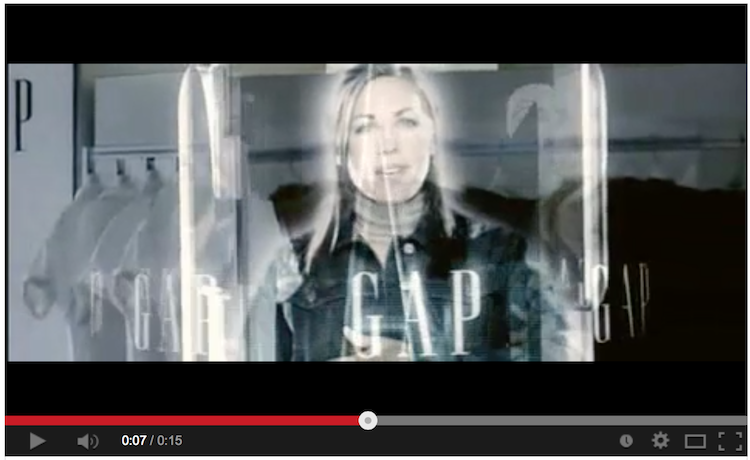
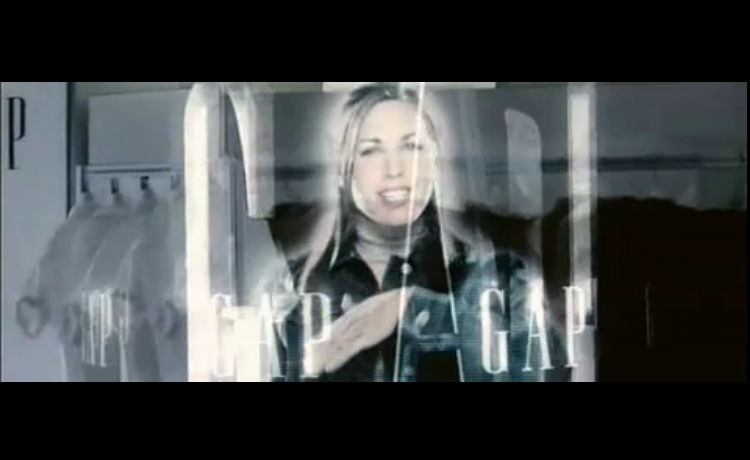
Nicer integration of the video with the whole slide show and the PDF generation

diff --git a/Presentation/Classes/Controllers/TRIPresentationController.m b/Presentation/Classes/Controllers/TRIPresentationController.m
@@ -107,19 +107,22 @@ static NSString *PDF_FILENAME = @"slides.pdf";
     [self resizeCurrentScreen];
 }
 
-- (void)didRotateFromInterfaceOrientation:(UIInterfaceOrientation)fromInterfaceOrientation
-{
-    [super didRotateFromInterfaceOrientation:fromInterfaceOrientation];
-    [self resizeCurrentScreen];
-    self.holderView.hidden = NO;
-}
-
 - (void)willRotateToInterfaceOrientation:(UIInterfaceOrientation)toInterfaceOrientation
                                 duration:(NSTimeInterval)duration
 {
     [super willRotateToInterfaceOrientation:toInterfaceOrientation
                                    duration:duration];
+    [self.currentScreen willRotateToInterfaceOrientation:toInterfaceOrientation
+                                                duration:duration];
     self.holderView.hidden = YES;
+}
+
+- (void)didRotateFromInterfaceOrientation:(UIInterfaceOrientation)fromInterfaceOrientation
+{
+    [super didRotateFromInterfaceOrientation:fromInterfaceOrientation];
+    [self.currentScreen didRotateFromInterfaceOrientation:fromInterfaceOrientation];
+    [self resizeCurrentScreen];
+    self.holderView.hidden = NO;
 }
 
 #pragma mark - KVO

diff --git a/Presentation/Classes/Controllers/Screens/TRIYouTubeScreen.m b/Presentation/Classes/Controllers/Screens/TRIYouTubeScreen.m
@@ -13,6 +13,8 @@
 
 @property (weak, nonatomic) IBOutlet UIImageView *imageView;
 @property (weak, nonatomic) IBOutlet UILabel *urlLabel;
+@property (weak, nonatomic) IBOutlet UIView *holderView;
+@property (strong, nonatomic) XCDYouTubeVideoPlayerViewController *player;
 
 @end
 
@@ -22,8 +24,6 @@
 {
     [super viewDidLoad];
 
-    self.delayForSnapshot = 1.0;
-    
     NSString *name = self.definition[@"placeholder"];
     UIImage *image = [UIImage imageNamed:name];
     self.imageView.image = image;
@@ -46,9 +46,9 @@
 - (void)play
 {
     NSString *videoId = self.definition[@"contents"];
-    XCDYouTubeVideoPlayerViewController *player = nil;
-    player = [[XCDYouTubeVideoPlayerViewController alloc] initWithVideoIdentifier:videoId];
-    [self presentMoviePlayerViewControllerAnimated:player];
+    self.player = [[XCDYouTubeVideoPlayerViewController alloc] initWithVideoIdentifier:videoId];
+    self.player.view.frame = self.holderView.bounds;
+    [self.holderView addSubview:self.player.view];
 }
 
 @end
